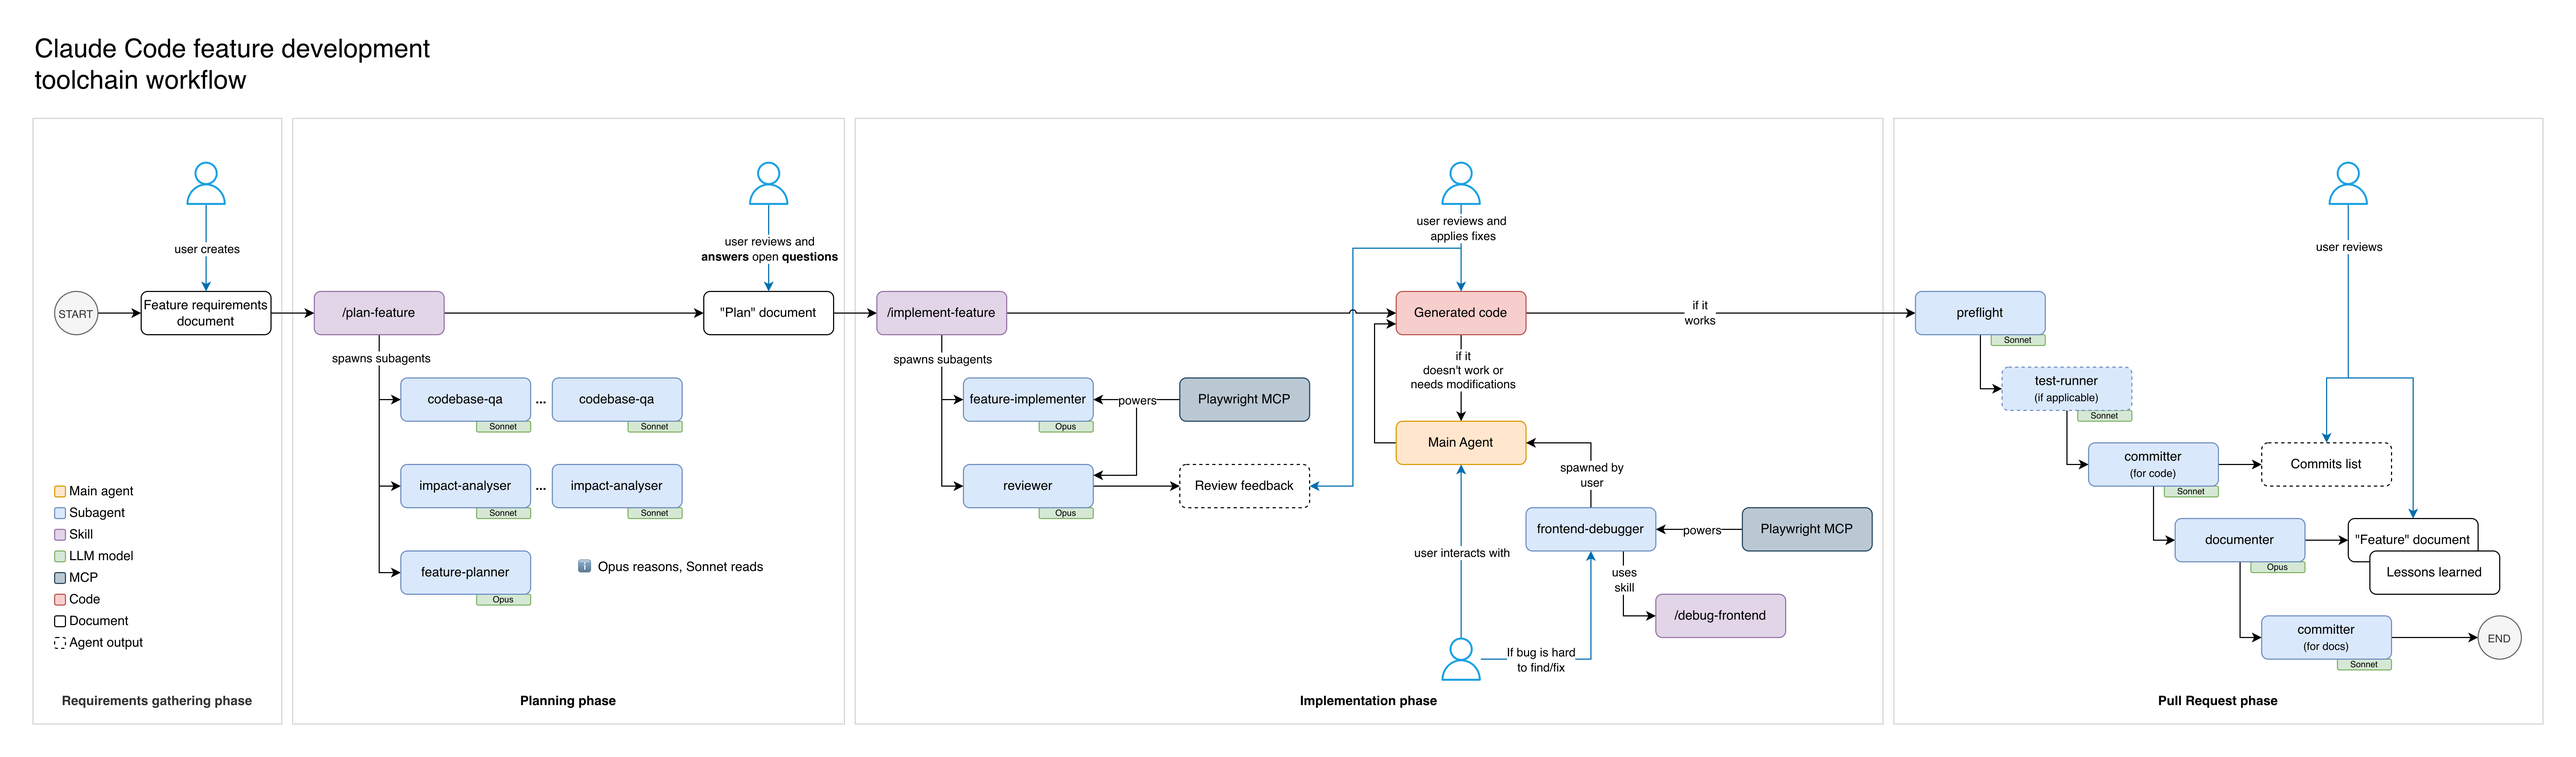
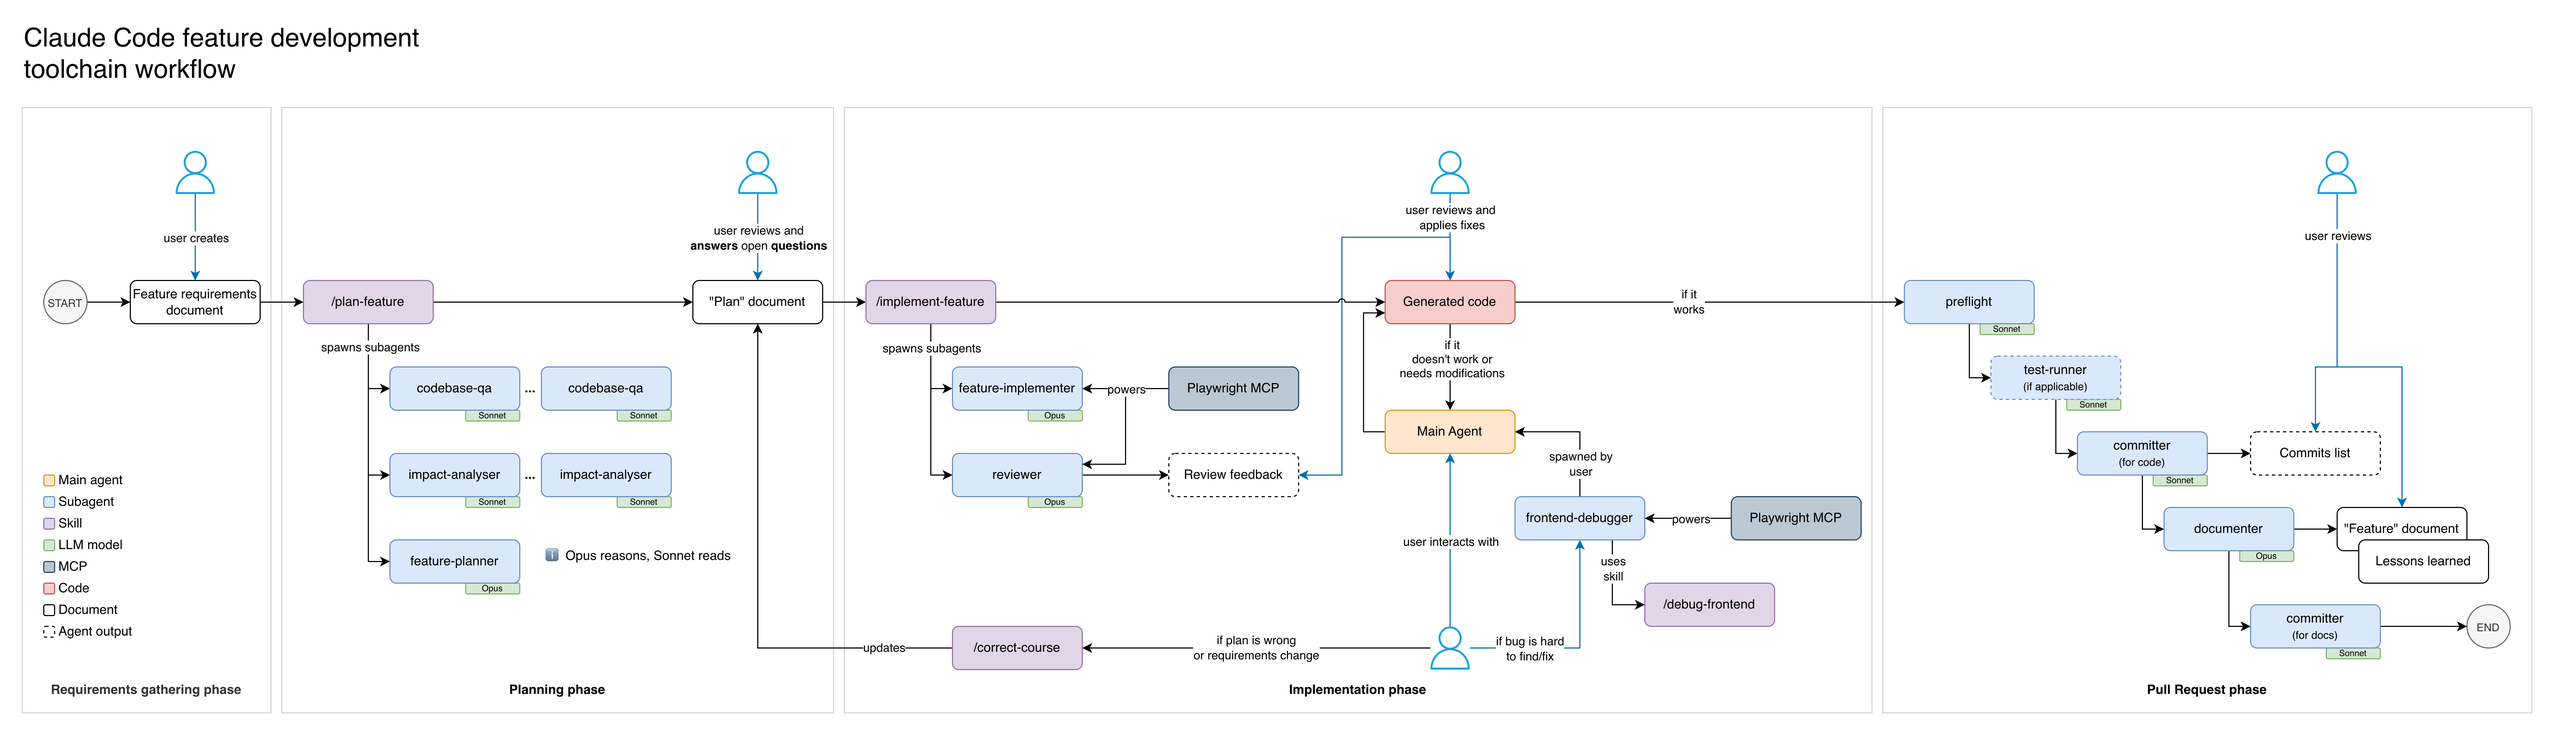
Add correct-course skill to act as feedback loop during implementation

diff --git a/.claude/skills/correct-course/SKILL.md b/.claude/skills/correct-course/SKILL.md
@@ -1,0 +1,162 @@
+---
+name: correct-course
+description: Amend an implementation plan mid-feature when assumptions prove wrong, requirements change, or the reviewer flags a fundamental issue. Compares the plan to current state, proposes targeted amendments, and updates the plan file.
+argument-hint: 'Path to plan file, optionally followed by a reason (e.g., docs/plans/ABC-123-feature.md "API doesn''t support batch mutations")'
+---
+
+# Correct Course
+
+Amend the implementation plan for "$ARGUMENTS" based on a deviation discovered during implementation.
+
+You coordinate four phases — assess current state, understand the deviation, propose amendments, and update the plan. Complete all phases in order.
+
+## Phase 1: Assess current state
+
+Run these commands in parallel:
+
+- `git branch --show-current` — extract the ticket identifier
+- `git diff <main-branch>...HEAD --stat` — see what files have been implemented (use the main branch from CLAUDE.md)
+- `git diff <main-branch>...HEAD --name-only` — list of changed files
+- `git log <main-branch>..HEAD --oneline` — commit history on this branch
+
+Then:
+
+1. **Locate the plan file.** If $ARGUMENTS starts with a file path (e.g. `docs/plans/ABC-123-feature.md`), read it. If it's a ticket number, look for a matching file in `docs/plans/`. If no plan exists, stop and tell the user there's nothing to correct.
+
+2. **Parse the plan's checklist.** Identify:
+   - Checked items (done) — these represent completed work
+   - Unchecked items (remaining) — these are what might need to change
+   - The file plan and layer ordering
+
+3. **Cross-reference with the diff.** Compare the files listed in the plan against the files actually changed on the branch. Note:
+   - Files in the plan that exist in the diff (implemented)
+   - Files in the plan that don't exist in the diff (not started)
+   - Files in the diff that aren't in the plan (unplanned additions — may indicate the deviation already started)
+
+4. **Scan git log for course-correction signals.** Look for:
+   - Revert commits
+   - Fixup or amendment commits
+   - Commit messages with "fix approach", "actually use", "switch to", "revert" — these hint at problems already encountered
+
+Present a brief status summary:
+
+> **Plan status for PROJ-123:**
+>
+> - Checklist: X/Y items completed
+> - Files implemented: N of M planned
+> - Unplanned files: [list if any]
+> - Correction signals in git log: [list if any]
+
+## Phase 2: Understand the deviation
+
+1. **Extract the reason from $ARGUMENTS.** If the user provided a reason after the plan path (e.g. `docs/plans/ABC-123.md "the API doesn't support batch mutations"`), use it.
+
+2. **If no reason was provided**, use **AskUserQuestion** to ask:
+
+   > What needs to change and why? Examples:
+   >
+   > - "The GraphQL API doesn't support batch mutations — need individual calls"
+   > - "Requirements changed: client now wants email confirmation too"
+   > - "The reviewer flagged that the data model won't scale"
+
+3. **Research the constraint if needed.** If the deviation involves a technical question (e.g. "does this API support X?"), spawn a `codebase-qa` agent to verify:
+
+   ```
+   Agent tool call:
+     description: "Research constraint"
+     subagent_type: "codebase-qa"
+     prompt: "[question about the constraint]"
+   ```
+
+   Only spawn a research agent if the deviation involves a factual question about the codebase. Skip for requirement changes or design decisions.
+
+## Phase 3: Propose amendments
+
+Analyse the impact of the deviation on the remaining plan. For each unchecked item, determine whether it:
+
+- **Stays unchanged** — the deviation doesn't affect it
+- **Needs modification** — the approach changes but the goal is the same
+- **Should be removed** — no longer needed
+- **Is new** — the deviation introduces work that wasn't in the original plan
+
+Present the proposed amendments in this format:
+
+> **Course correction for PROJ-123:**
+>
+> **Reason:** [the deviation, in one sentence]
+>
+> **Completed work (unaffected):**
+>
+> - [list checked items that don't need rework]
+>
+> **Completed work (needs rework):**
+>
+> - [list checked items that must be revisited, with what changes]
+>
+> **Remaining work — unchanged:**
+>
+> - [list unchecked items that stay as-is]
+>
+> **Remaining work — modified:**
+>
+> - ~~Original step~~ → **New step** (reason for change)
+> - [repeat for each modified item]
+>
+> **Removed:**
+>
+> - [items no longer needed, with reason]
+>
+> **Added:**
+>
+> - **New step:** [description] (why this is now needed)
+>
+> **Risk assessment:** [one sentence on what could go wrong with the new approach]
+>
+> **Estimated impact:** +N new files, ~M files modified, -R files removed compared to original plan
+
+Use **AskUserQuestion** to ask the user to approve, modify, or reject the proposed amendments.
+
+If the user modifies the proposal, incorporate their feedback. If they reject it entirely, stop — do not update the plan.
+
+## Phase 4: Update the plan
+
+After the user approves the amendments:
+
+1. **Update the checklist.** Using the `Edit` tool:
+   - Uncheck any completed items that need rework
+   - Modify descriptions of changed items
+   - Remove items that are no longer needed
+   - Add new items in the appropriate position (following the commit grouping order from the project's commit conventions)
+   - Preserve all checked items that don't need rework
+
+2. **Update the file plan** (if the plan has one). Add, remove, or modify file entries to match the new approach.
+
+3. **Append a Course Corrections log entry** at the end of the plan file (create the section if it doesn't exist):
+
+   ```markdown
+   ## Course Corrections
+
+   ### CC-1 — YYYY-MM-DD
+
+   **Reason:** [the deviation]
+   **Impact:** [one-sentence summary of what changed in the plan]
+   **Items affected:** [list of checklist items added, removed, or modified]
+   ```
+
+   If the section already exists (from a previous correction), increment the number (CC-2, CC-3, etc.).
+
+4. **Flag lessons learned candidates.** If the deviation reveals something non-obvious that would help future implementations (e.g. "this API doesn't support X despite the docs suggesting it does"), note it at the end of the Course Corrections entry:
+
+   ```markdown
+   **Lesson candidate:** [description — the documenter agent will propose codifying this into .claude/rules/ at the end of the feature]
+   ```
+
+## Output
+
+Report back with:
+
+1. The updated plan file path
+2. Summary: how many items were modified, added, removed, and unchanged
+3. Whether any completed work needs rework
+4. Any lesson candidates flagged for the documenter
+5. Reminder: "Resume implementation from the updated plan. The checklist reflects the current state."

diff --git a/docs/manuals/01-workflows/feature-development.md b/docs/manuals/01-workflows/feature-development.md
@@ -21,6 +21,7 @@ For canonical agent and skill definitions, use [`../03-reference/ai-tools-refere
 | New DB column, table, or EAV attribute         | `/data-patch`                               |
 | Transactional emails (confirmation + internal) | `/email-template`                           |
 | New feature spanning multiple layers           | [Full workflow](#complex-features)          |
+| Plan is wrong mid-implementation               | `/correct-course` to amend the plan         |
 
 ---
 
@@ -36,6 +37,8 @@ flowchart TD
     D --> E["2⃣ Phase 2: Implement + review<br/>/implement-feature (spawns implementer + reviewer)"]
     E --> F{Code works?}
     F -- "Needs modifications" --> G[Fix issues via Main Agent<br/>with targeted skills or manual edits]
+    F -- "Plan is wrong" --> CC["/correct-course<br/>Amend the plan"]
+    CC --> E
     G --> E2["Re-run @preflight to verify fixes"]
     E2 --> F
     F -- Yes --> H["3⃣ Phase 3: QA baseline<br/>@preflight"]
@@ -88,6 +91,16 @@ The `/implement-feature` skill orchestrates the full implementation workflow in 
 The review feedback is **informational output for the user** — it does not trigger automated fixes. You decide which findings to address and how.
 
 > The output includes a **"Key files to understand"** list — read those files and trace the primary data flow yourself before moving on. The review checks correctness, but only you can verify that you understand what was built. See `05-concepts/knowledgebase-comprehension-debt.md`.
+
+#### When the plan is wrong — course correction
+
+If during implementation or review you discover the plan won't work (an assumption was wrong, a dependency doesn't behave as expected, or requirements changed), amend the plan before continuing:
+
+```
+/correct-course docs/plans/TICKET-XXX-feature-name.md "reason for the deviation"
+```
+
+This compares the plan to the current implementation state (checklist progress, files changed, git log signals), proposes targeted amendments, and updates the plan file after your approval. A Course Corrections log is appended to the plan documenting what changed and why — this feeds the documenter's lessons learned step later. Resume implementation from the updated plan.
 
 ### Phase 3 — QA
 

diff --git a/docs/manuals/03-reference/ai-tools-reference.md b/docs/manuals/03-reference/ai-tools-reference.md
@@ -52,6 +52,7 @@ Skills are invoked with `/skill-name` in the conversation. They run in the curre
 |---|---|
 | `/plan-feature [requirements file, ticket, or description]` | Orchestrate the full planning workflow: spawn `codebase-qa` sub-agents for research + `impact-analyser` sub-agents for ripple effects, then delegate to `@feature-planner` with findings. Returns a file-by-file implementation plan. |
 | `/implement-feature [plan file path]` | Orchestrate the full implementation workflow: validate the plan, spawn `@feature-implementer` in the working directory, then spawn `@reviewer` to review the result. Returns a combined report with change summary, verification results, and code review findings. The review feedback is informational output for the user — it does not trigger automated fixes. |
+| `/correct-course [plan file path] ["reason"]` | Amend an implementation plan mid-feature. Compares the plan to current state (checklist, git diff, commit log), proposes targeted amendments, and updates the plan file after approval. Appends a Course Corrections log and flags lessons learned candidates for the documenter. |
 
 #### Feature scaffolding
 
@@ -114,6 +115,7 @@ These are loaded automatically into agents that declare them. They inject projec
 | I want to know what a layout change does | `/layout-diff` |
 | I want to know what will break if I change X | `@impact-analyser` |
 | I'm starting a large feature | `/plan-feature` → `/implement-feature` |
+| The plan is wrong mid-implementation | `/correct-course` — amends the plan, documents why, flags lessons learned |
 | I'm adding a new React widget | `/react-new-widget` |
 | I'm adding a form | `/react-form-wizard` |
 | I'm adding a GraphQL operation | `/gql` (auto-detects whether PHP side is needed) |

diff --git a/docs/README.md b/docs/README.md
@@ -164,6 +164,14 @@ Fix issues found by the reviewer or your own inspection. Useful slash commands f
 
 For frontend/UI bugs, use `@frontend-debugger` — it instruments code with a log server, collects runtime evidence, and fixes based on actual behaviour rather than guesswork. When the Playwright MCP is available, it automates bug reproduction via browser automation.
 
+If the plan itself is wrong (an assumption didn't hold, requirements changed, or the reviewer flagged a fundamental issue), run `/correct-course` to amend it:
+
+```
+/correct-course docs/plans/PROJ-123-feature.md "the API doesn't support batch mutations"
+```
+
+This compares the plan to the current implementation state, proposes targeted amendments, and updates the plan file with a documented correction log. Resume implementation from the updated plan.
+
 See [manuals/03-reference/ai-tools-reference.md](manuals/03-reference/ai-tools-reference.md) for the full list of available commands, agents, and skills.
 
 ### Step 5 — Quality checks
